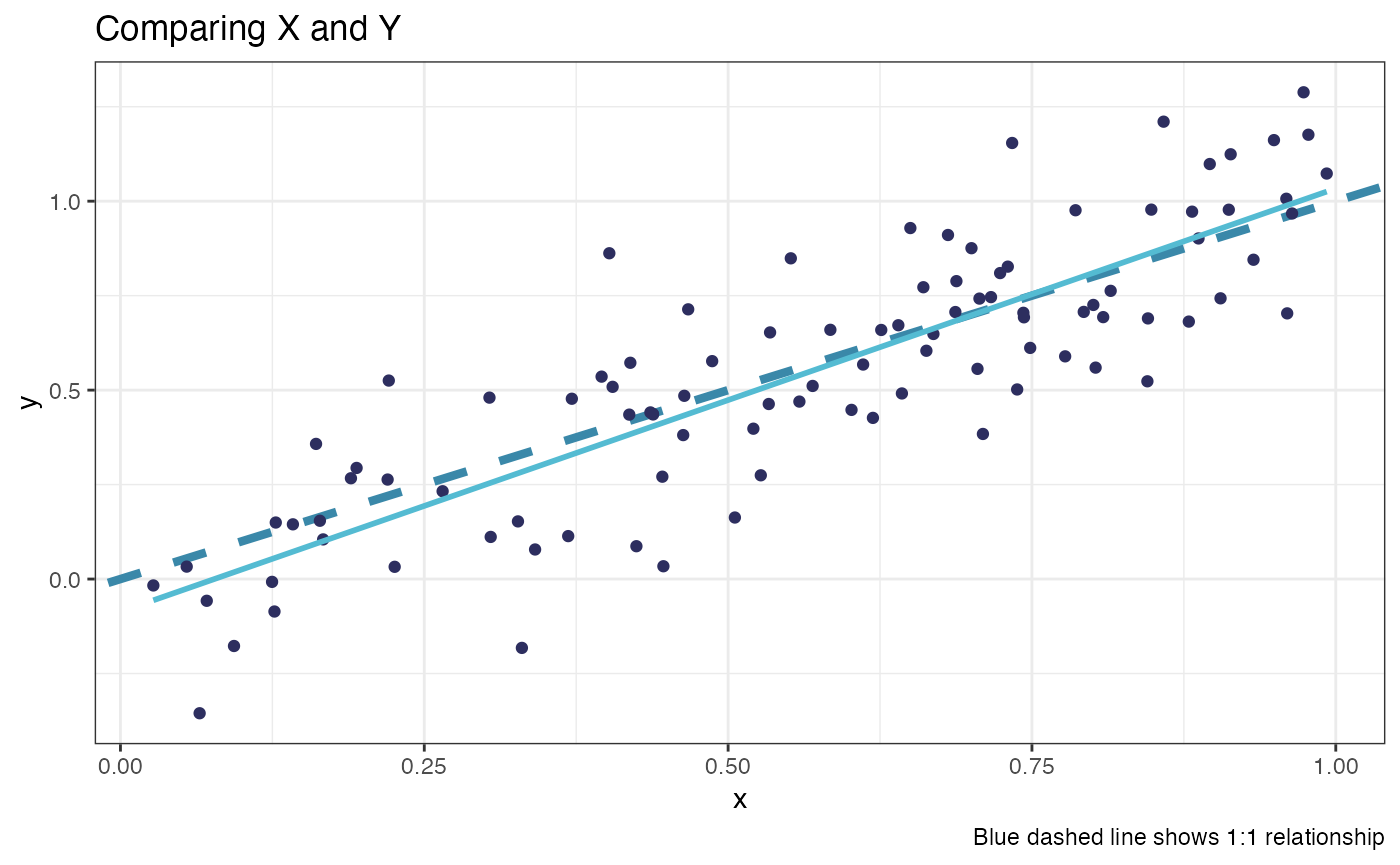
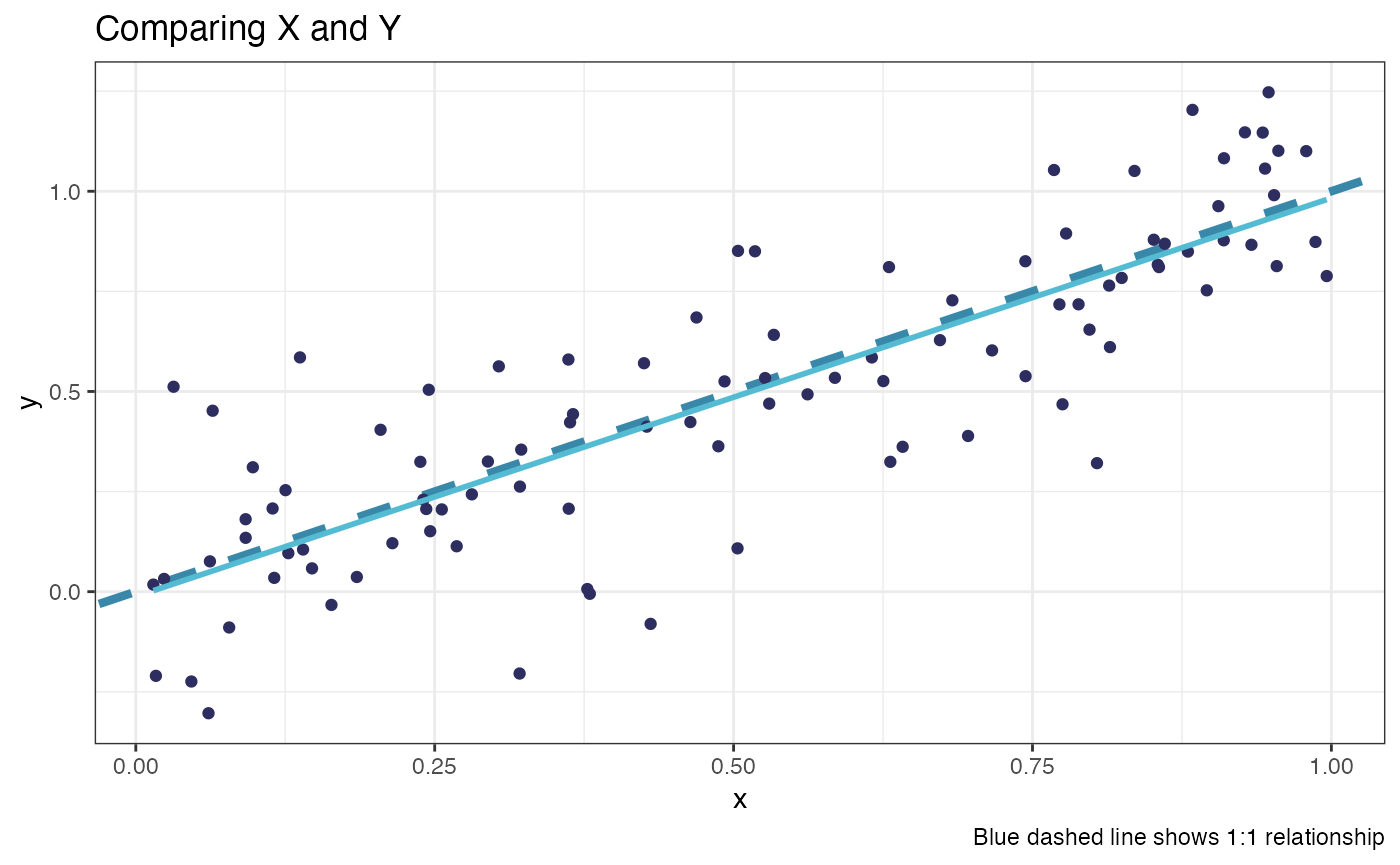
Updating README

diff --git a/docs/articles/HGUTheme.html b/docs/articles/HGUTheme.html
@@ -168,16 +168,16 @@ regression line on top. First we can make some fake data</p>
 <span><span class="co">#&gt; <span style="color: #949494;"># A tibble: 100 × 2</span></span></span>
 <span><span class="co">#&gt;         x       y</span></span>
 <span><span class="co">#&gt;     <span style="color: #949494; font-style: italic;">&lt;dbl&gt;</span>   <span style="color: #949494; font-style: italic;">&lt;dbl&gt;</span></span></span>
-<span><span class="co">#&gt; <span style="color: #BCBCBC;"> 1</span> 0.619   0.427 </span></span>
-<span><span class="co">#&gt; <span style="color: #BCBCBC;"> 2</span> 0.487   0.577 </span></span>
-<span><span class="co">#&gt; <span style="color: #BCBCBC;"> 3</span> 0.527   0.275 </span></span>
-<span><span class="co">#&gt; <span style="color: #BCBCBC;"> 4</span> 0.190   0.267 </span></span>
-<span><span class="co">#&gt; <span style="color: #BCBCBC;"> 5</span> 0.896   1.10  </span></span>
-<span><span class="co">#&gt; <span style="color: #BCBCBC;"> 6</span> 0.705   0.556 </span></span>
-<span><span class="co">#&gt; <span style="color: #BCBCBC;"> 7</span> 0.681   0.911 </span></span>
-<span><span class="co">#&gt; <span style="color: #BCBCBC;"> 8</span> 0.093<span style="text-decoration: underline;">4</span> -<span style="color: #BB0000;">0.177</span> </span></span>
-<span><span class="co">#&gt; <span style="color: #BCBCBC;"> 9</span> 0.071<span style="text-decoration: underline;">0</span> -<span style="color: #BB0000;">0.057</span><span style="color: #BB0000; text-decoration: underline;">5</span></span></span>
-<span><span class="co">#&gt; <span style="color: #BCBCBC;">10</span> 0.802   0.560 </span></span>
+<span><span class="co">#&gt; <span style="color: #BCBCBC;"> 1</span> 0.023<span style="text-decoration: underline;">7</span>  0.031<span style="text-decoration: underline;">8</span></span></span>
+<span><span class="co">#&gt; <span style="color: #BCBCBC;"> 2</span> 0.294   0.325 </span></span>
+<span><span class="co">#&gt; <span style="color: #BCBCBC;"> 3</span> 0.744   0.538 </span></span>
+<span><span class="co">#&gt; <span style="color: #BCBCBC;"> 4</span> 0.945   1.06  </span></span>
+<span><span class="co">#&gt; <span style="color: #BCBCBC;"> 5</span> 0.078<span style="text-decoration: underline;">1</span> -<span style="color: #BB0000;">0.089</span><span style="color: #BB0000; text-decoration: underline;">5</span></span></span>
+<span><span class="co">#&gt; <span style="color: #BCBCBC;"> 6</span> 0.825   0.784 </span></span>
+<span><span class="co">#&gt; <span style="color: #BCBCBC;"> 7</span> 0.896   0.753 </span></span>
+<span><span class="co">#&gt; <span style="color: #BCBCBC;"> 8</span> 0.137   0.585 </span></span>
+<span><span class="co">#&gt; <span style="color: #BCBCBC;"> 9</span> 0.014<span style="text-decoration: underline;">7</span>  0.017<span style="text-decoration: underline;">7</span></span></span>
+<span><span class="co">#&gt; <span style="color: #BCBCBC;">10</span> 0.928   1.15  </span></span>
 <span><span class="co">#&gt; <span style="color: #949494;"># … with 90 more rows</span></span></span></code></pre></div>
 <p>Then we can make a simple plot that you might make for a
 presentation:</p>

diff --git a/docs/index.html b/docs/index.html
@@ -68,8 +68,8 @@
 </h1></div>
 <!-- badges: start -->
 
-<p>Unofficial ggplot2 themes using the colour palette of the MRC HGU logo.</p>
-<p>This package allows the user quickly change the colours of <code>ggplot2</code> plots such that they fit in with the colour theme set out in the MRC HGU powerpoint. For users comfortable with <code>ggplot2</code> there are functions to quickly return the HEX codes for each of the colours in the HGU and MRC colour themes. For users not so familiar with <code>ggplot2</code>, there are a variety of functions that act as wrappers for the styling functions that will automatically assign the correct colour values.</p>
+<p>Unofficial ggplot2 themes for using the colour palette of the MRC HGU logo.</p>
+<p>The MRC Human Genetics Unit Powerpoint template comes with a preset colour theme that controls the colours of most elements of the presentation. When creating a plot in <code>ggplot2</code> it is possible to set the colour of various parts of various elements and <code>HGUTheme</code> contains multiple functions to help you do so. It is not always appropriate to use these colours (as discussed in ‘Get started’) but where it is appropriate <code>HGUTheme</code> allows you to easily create a consistent colour theme for your presentations.</p>
 <p><strong>These palettes were created to align with the colour schemes of the MRC and HGU palettes. However, the original palettes were not designed for use on plots and so please consider the effect of your colour choices for colourblind people when constructing your plots.</strong></p>
 <div class="section level2">
 <h2 id="installation">Installation<a class="anchor" aria-label="anchor" href="#installation"></a>

diff --git a/README.md b/README.md
@@ -8,15 +8,17 @@
 [![pages-build-deployment](https://github.com/hwarden162/HGUTheme/actions/workflows/pages/pages-build-deployment/badge.svg)](https://github.com/hwarden162/HGUTheme/actions/workflows/pages/pages-build-deployment)
 <!-- badges: end -->
 
-Unofficial ggplot2 themes using the colour palette of the MRC HGU logo.
+Unofficial ggplot2 themes for using the colour palette of the MRC HGU
+logo.
 
-This package allows the user quickly change the colours of `ggplot2`
-plots such that they fit in with the colour theme set out in the MRC HGU
-powerpoint. For users comfortable with `ggplot2` there are functions to
-quickly return the HEX codes for each of the colours in the HGU and MRC
-colour themes. For users not so familiar with `ggplot2`, there are a
-variety of functions that act as wrappers for the styling functions that
-will automatically assign the correct colour values.
+The MRC Human Genetics Unit Powerpoint template comes with a preset
+colour theme that controls the colours of most elements of the
+presentation. When creating a plot in `ggplot2` it is possible to set
+the colour of various parts of various elements and `HGUTheme` contains
+multiple functions to help you do so. It is not always appropriate to
+use these colours (as discussed in ‘Get started’) but where it is
+appropriate `HGUTheme` allows you to easily create a consistent colour
+theme for your presentations.
 
 **These palettes were created to align with the colour schemes of the
 MRC and HGU palettes. However, the original palettes were not designed
